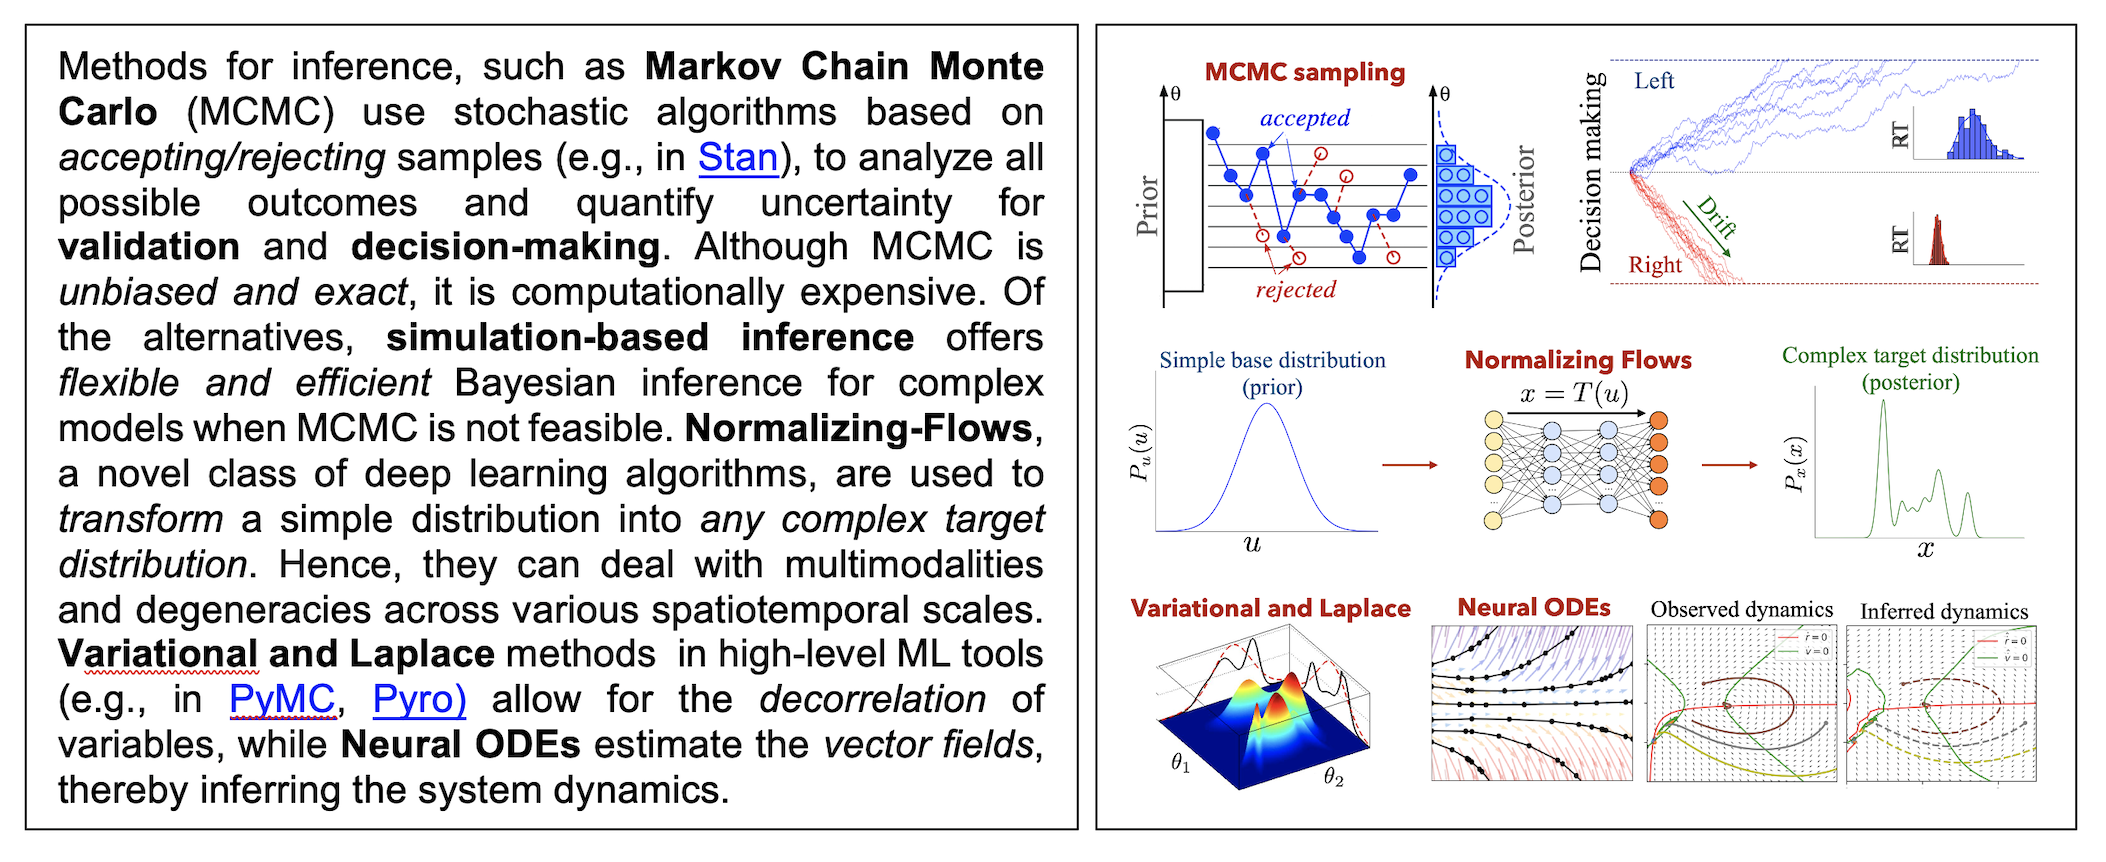
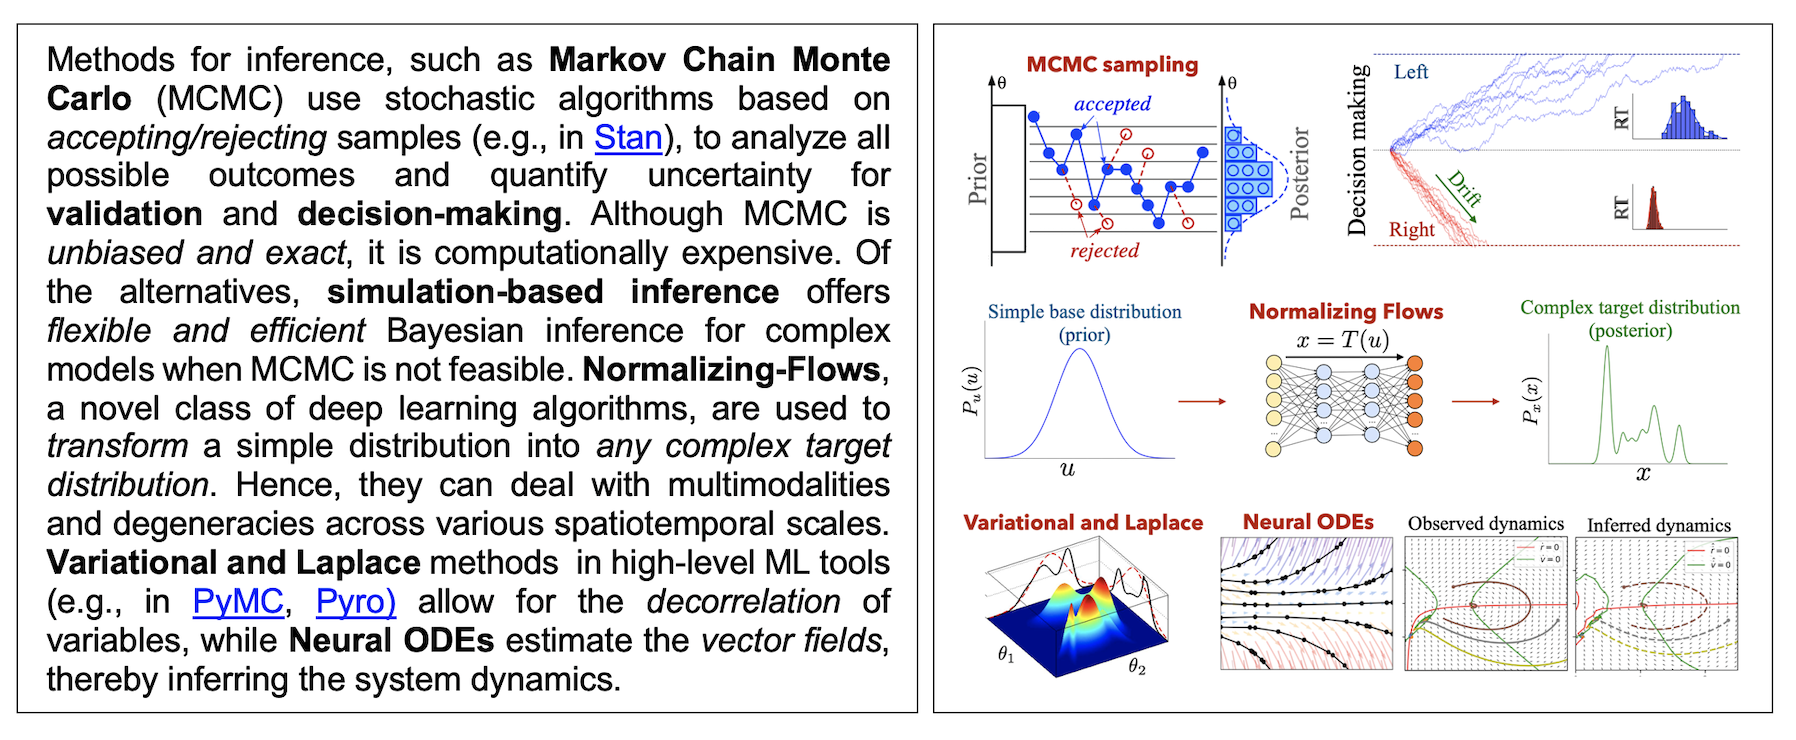
upload images highlights png format

diff --git a/software.html b/software.html
@@ -248,16 +248,57 @@
         <section class="intro">
             <h2>About My Work</h2>
             <p>
+              My main methodological contribution involves multimodal and multiscale inference methods. These tools represent the state-of-the-art <strong>probabilistic ML </strong> and <strong>generative AI</strong>that model uncertainty and make predictions over all possible outcomes rather than only a single value.
+              Notably, probabilistic ML, once validated using <strong>mechanistic models</strong>, can be used in scenarios where experiments are prohibitive.
+              In contrast, generative AI is typically trained on large datasets and is designed to operate across <strong> spatiotemporal scales</strong> rather than making predictions about a specific dataset.
+
                 I aim to build inference tools that are automatic, flexible, and scalable. Technically, I have developed:
                 <br><br>
                 <strong>(1) Adaptive Markov Chain Monte Carlo algorithms </strong> for unbiased hypothesis comparison,<br>
                 <strong>(2) Amortized simulation-based inference methods</strong> leveraging probabilistic deep learning.
                 <br><br>
+
                 These tools address challenges in Bayesian inference from brain recordings across multiple spatiotemporal scales and are integrated into the
                 <a href="https://www.ebrains.eu" target="_blank" style="color: #2ecc71; font-weight: bold;">EBRAINS</a> platform.
             </p>
             <a href="https://github.com/mhashemi0873" class="github-btn" target="_blank">View My GitHub</a>
         </section>
+
+
+        <section class="content-section intro-box" style="padding: 3rem; margin-top: 4rem; margin-bottom: 4rem; clear: both; display: block;">
+            <h3 class="section-title" style="margin-top: 0; color: var(--sidebar-bg); border-bottom: 2px solid var(--border-color); padding-bottom: 15px;">
+                Advanced Inference Methodologies
+            </h3>
+
+            <div class="figure-container" style="text-align: center; margin: .0rem 0; background: #ffffff; padding: 0.rem; border-radius: 12px; border: 1px solid var(--border-color);">
+              <img src="images/BayesianMethods.png" style="width: 100%; max-width: 1000px; height: auto; display: block; margin: 0px auto;">
+
+            </div>
+
+            <div class="inference-description" style="padding: 0 1rem; margin-top: 2rem;">
+                <ul style="list-style: none; padding: 0;">
+                    <li style="margin-bottom: 1.8rem; display: flex; gap: 15px; align-items: flex-start;">
+                        <span style="color: var(--accent-green); font-weight: bold; font-size: 1.2rem; line-height: 1;">•</span>
+                        <span style="text-align: justify;"><strong>Adaptive Markov chain Monte Carlo (MCMC):</strong> A class of stochastic algorithms used to draw samples from probability distributions without requiring full knowledge about the distribution. This approach is exact, and its adaptive strategy automatically tunes the algorithm’s hyperparameters (e.g., in Stan, PyMC, Pyro).</span>
+                    </li>
+                    <li style="margin-bottom: 1.8rem; display: flex; gap: 15px; align-items: flex-start;">
+                        <span style="color: var(--accent-green); font-weight: bold; font-size: 1.2rem; line-height: 1;">•</span>
+                        <span style="text-align: justify;"><strong>Amortized Simulation-based inference (SBI):</strong> A probabilistic inference that uses a class of deep learning so-called <em>normalizing-flows</em> to make efficient inferences about complex systems. Amortization strategy refers to the idea of reusing learned computations for fast inference on new data without re-training.</span>
+                    </li>
+                    <li style="margin-bottom: 1.8rem; display: flex; gap: 15px; align-items: flex-start;">
+                        <span style="color: var(--accent-green); font-weight: bold; font-size: 1.2rem; line-height: 1;">•</span>
+                        <span style="text-align: justify;"><strong>Variational and Laplace inference:</strong> Approximation methods that replace complex posterior distributions with simpler forms and recast sampling as an optimization problem, e.g., used in DCM.</span>
+                    </li>
+                    <li style="margin-bottom: 0; display: flex; gap: 15px; align-items: flex-start;">
+                        <span style="color: var(--accent-green); font-weight: bold; font-size: 1.2rem; line-height: 1;">•</span>
+                        <span style="text-align: justify;"><strong>Neural ODEs:</strong> Generative models that generate new samples resembling the original dataset.</span>
+                    </li>
+                </ul>
+            </div>
+        </section>
+
+
+
 
         <div class="project-list">
 
